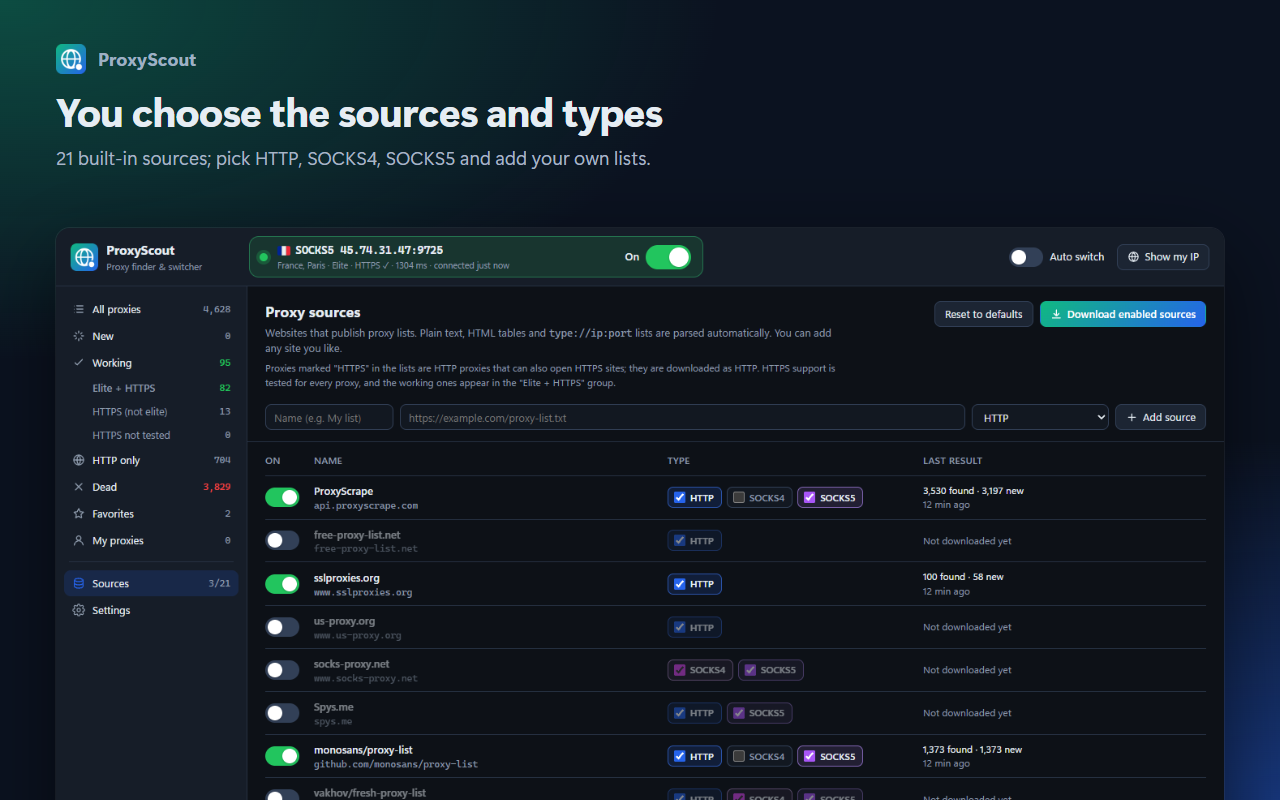
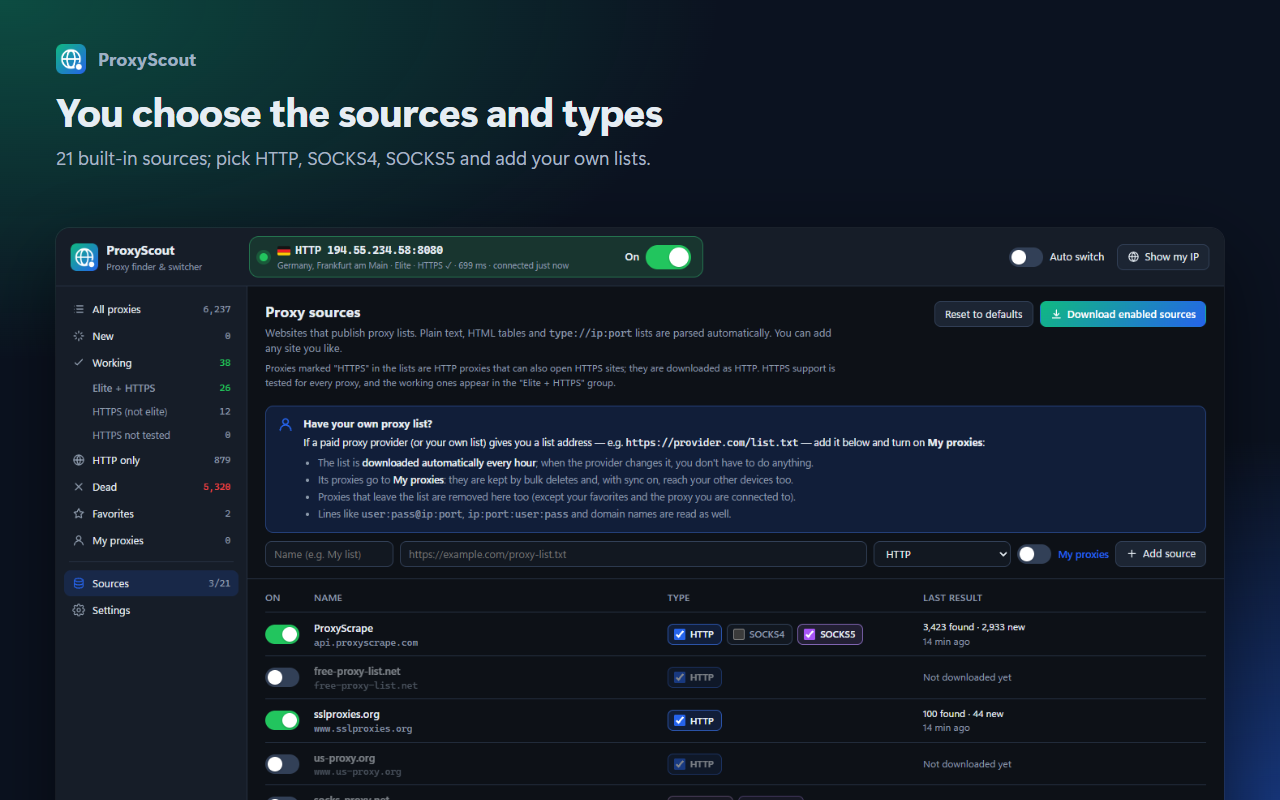
Store screenshots, README and listing text for the new features
Adds a privacy check screenshot, describes the privacy check, WebRTC
protection, only-these-sites routing, My proxies list sources, the
keyboard shortcut and the popup fastest button, and the optional
privacy permission.

diff --git a/README.md b/README.md
@@ -31,6 +31,7 @@ traffic goes through it; one switch turns it off again.
 | --- | --- |
 | ![One-click connect from the popup](store/screenshots/en/02-popup.png) | ![Which sites open through each proxy](store/screenshots/en/03-sites.png) |
 | ![Choose sources and proxy types](store/screenshots/en/04-sources.png) | ![Sync across browsers](store/screenshots/en/05-sync.png) |
+| ![Privacy check: exit IP, WebRTC and DNS](store/screenshots/en/06-privacy.png) | |
 
 ## Features
 
@@ -54,9 +55,21 @@ traffic goes through it; one switch turns it off again.
   proxies that open that site.
 - **Country, city and flag** for every proxy (offline country database, city/ISP for working proxies).
 - **One-click connect** and **one switch** to turn it off. The toolbar icon shows the state: green
-  connected, amber connecting, red not responding, grey off.
+  connected, amber connecting, red not responding, grey off. The ⚡ button in the popup connects to the
+  fastest proxy in the list (pick a country first if you like), and **Alt+Shift+P** turns the proxy on or
+  off from anywhere (change it in the browser's extension shortcuts).
 - **No IP leak:** if the connected proxy dies, traffic does not fall back to a direct connection.
   With **Auto switch** on, ProxyScout moves to the next best working proxy.
+- **Privacy check** (**Show my IP**): your exit IP and its country, whether WebRTC shows your real IP,
+  and whether DNS goes through the proxy. One click turns on **WebRTC protection**, which keeps WebRTC
+  from going around the proxy while you are connected.
+- **Only chosen sites through the proxy** (optional): list sites such as `youtube.com` in
+  **Settings → Connection**; everything else goes direct.
+- **My proxies:** proxies you import, and lists from a paid provider. Add the provider's list address
+  under **Sources** with **My proxies** on and it is updated every hour: new proxies are added, removed
+  ones are dropped. My proxies and favorites are never removed by **Delete all dead** or **Clear the whole list**,
+  and you can save them to a text file.
+- **Move to Dead** next to **Connect** in every row, for proxies you do not want to see.
 - **Sync** your list across browsers with the browser's own sync or Google Drive.
 - English and Turkish interface, dark and light themes. No ads, no tracking, no account needed.
 
@@ -69,10 +82,14 @@ traffic goes through it; one switch turns it off again.
 | Turn the proxy off | The switch at the top of the popup or in the manager's connection card |
 | Re-test or clean up | **Test ▾** (selected, new, working, dead, …) and **Delete ▾** (dead proxies) |
 | Add your own proxies | **Import** (`ip:port`, `socks5://ip:port`, `user:pass@ip:port`, `ip:port:user:pass`) |
+| Keep a provider's list in sync | **Sources** → add the list address and turn on **My proxies** |
 | Choose or add sources | Sidebar → **Sources** (on a phone: ⚙ at the top → **Sources**) |
+| Check for IP leaks | **Show my IP** at the top of the manager |
+| Send only some sites through the proxy | **Settings → Connection** → **Send only the sites below through the proxy** |
+| Save a list to a file | **Copy ▾** → **Save My proxies to a file** / **Save visible to a file** |
 
-Manager shortcuts: `Enter` = connect to selected, `Del` = delete, `Ctrl+A` = select all,
-`Shift/Ctrl+click` = multi-select.
+Keyboard: `Alt+Shift+P` = proxy on/off (anywhere in the browser). In the manager: `Enter` = connect to
+selected, `Del` = delete, `Ctrl+A` = select all, `Shift/Ctrl+click` = multi-select.
 
 ## How it works
 
@@ -106,6 +123,10 @@ To use your own Google client (for example in a fork), see
 - Chrome, Edge and Opera do not support username/password for SOCKS5 proxies (HTTP proxies are
   supported); Firefox supports both.
 - Only one extension can control the proxy setting at a time — disable other proxy/VPN extensions.
+- WebRTC protection needs the optional "privacy" permission (the browser asks once). While it is on,
+  video calls and similar features may be slower or may not work.
+- With a SOCKS4 proxy, domain names are resolved by your own DNS (the privacy check warns about this);
+  HTTP and SOCKS5 proxies resolve them on the proxy side.
 - Firefox: credentials of your own proxies are synced only after you grant the optional
   "authentication information" permission (Settings → Sync → **Sync now**).
 - While connected, list downloads go through the active proxy.

diff --git a/PRIVACY.md b/PRIVACY.md
@@ -1,6 +1,6 @@
 # ProxyScout — Gizlilik Politikası / Privacy Policy
 
-_Son güncelleme / Last updated: 19.10.2026 (Firefox)_
+_Son güncelleme / Last updated: 05.11.2026_
 
 ## Türkçe
 
@@ -20,8 +20,13 @@ eklediğiniz proxy'ler (kullanıcı adı/şifre dahil), kaynak seçimleri ve aya
 | httpbin.org, Cloudflare (`*.cloudflareaccess.com/cdn-cgi/trace`) | Proxy'nin çalışıp çalışmadığını ve gizlilik düzeyini test etme | Test isteği (proxy üzerinden) |
 | ip-api.com | Çalışan proxy'lerin ülke/şehir bilgisi | Proxy'lerin IP adresleri |
 | api.ipify.org, icanhazip.com | "IP'mi göster" ve bağlantı doğrulama | Standart HTTP isteği |
+| Google STUN sunucusu (`stun.l.google.com`) | Yalnızca "IP'mi göster" → gizlilik kontrolünde: WebRTC'nin gerçek IP'nizi gösterip göstermediğini anlamak | Standart WebRTC/STUN isteği (her web sayfasının yapabildiği gibi) |
 | Seçtiğiniz proxy sunucusu | Siz bağlandığınızda tarayıcı trafiğiniz bu sunucudan geçer | Gezinme trafiği |
 | Google (yalnızca senkronizasyonu açarsanız) | Listeyi cihazlarınız arasında taşımak | Aşağıya bakın |
+
+**WebRTC koruması (isteğe bağlı):** Açarsanız eklenti tarayıcının isteğe bağlı "privacy" iznini ister
+ve yalnızca proxy açıkken tarayıcının WebRTC ayarını "proxy'siz UDP'yi kapat" olarak değiştirir;
+proxy kapanınca ayar eski haline döner. Bu izin başka hiçbir veriye erişmek için kullanılmaz.
 
 **Senkronizasyon (isteğe bağlı):**
 - _Chrome senkronu_: Özet (çalışan proxy'ler, favoriler, kendi proxy'leriniz, kaynak seçimleri,
@@ -62,8 +67,15 @@ you add (including username/password), source choices and settings.
 **Third parties contacted** (only as needed for the features): proxy list websites (to download lists);
 httpbin.org and Cloudflare (`*.cloudflareaccess.com/cdn-cgi/trace`) to test proxies; ip-api.com
 (proxy IP addresses, to look up country/city); api.ipify.org / icanhazip.com ("Show my IP" and
-connection checks); the proxy server you choose (your browsing traffic goes through it while
+connection checks); Google's STUN server (`stun.l.google.com`), only when you run the privacy check
+under "Show my IP", to see whether WebRTC reveals your real IP (a standard WebRTC request that any web
+page can make); the proxy server you choose (your browsing traffic goes through it while
 connected); Google, only if you turn on sync.
+
+**WebRTC protection (optional):** If you turn it on, the extension asks for the browser's optional
+"privacy" permission and, only while the proxy is on, sets the browser's WebRTC policy to "disable
+non-proxied UDP"; the setting is restored when the proxy is turned off. The permission is not used to
+access any other data.
 
 **Sync (optional):** With _Chrome sync_ a summary (working proxies, favorites, your proxies, source
 choices, settings) is stored in the sync storage of the Google account you are signed in to Chrome
